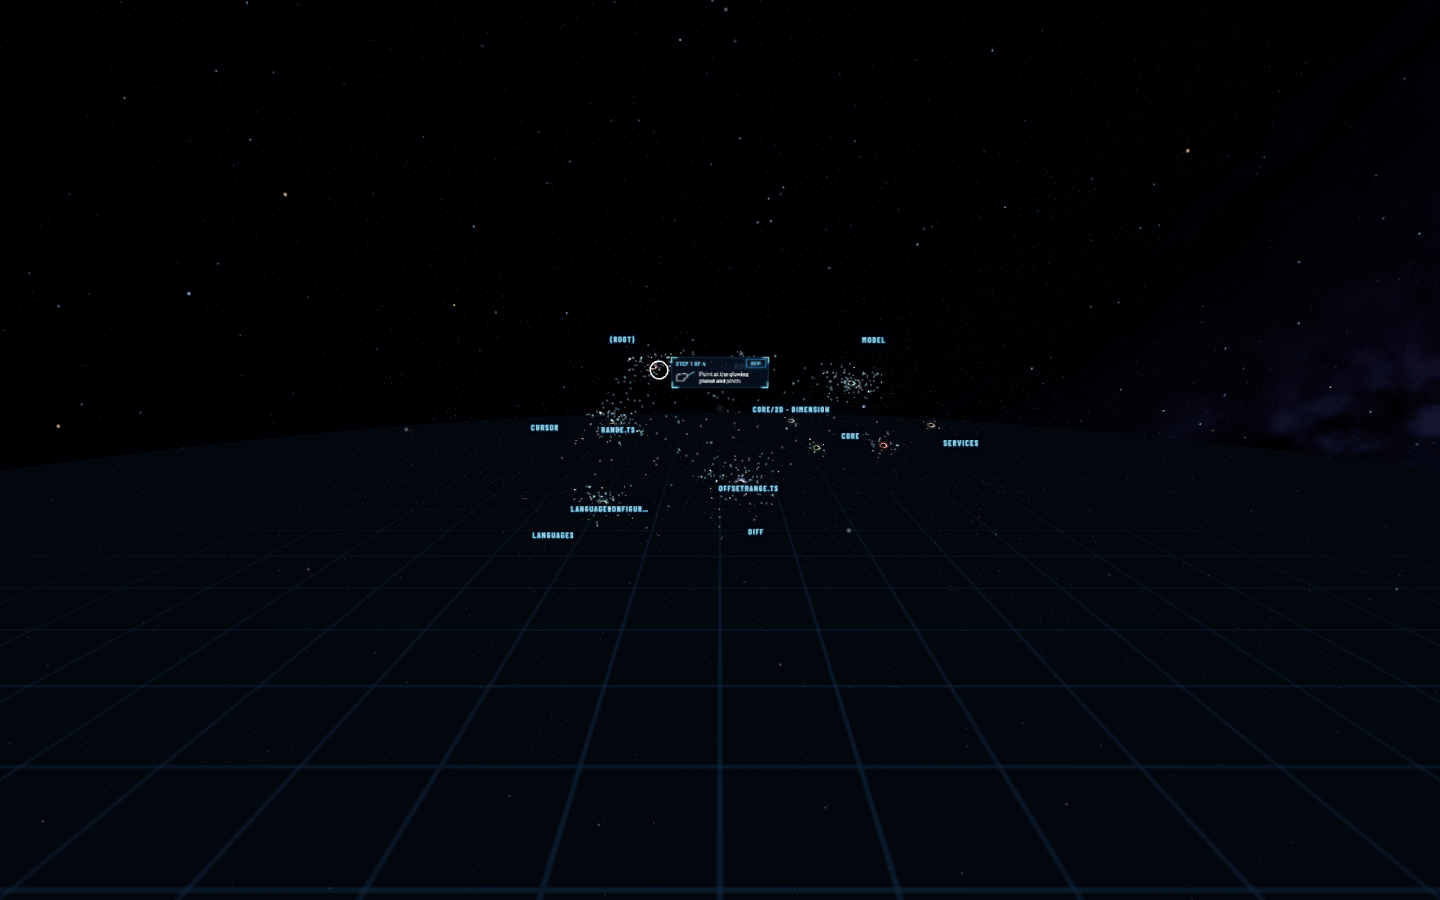
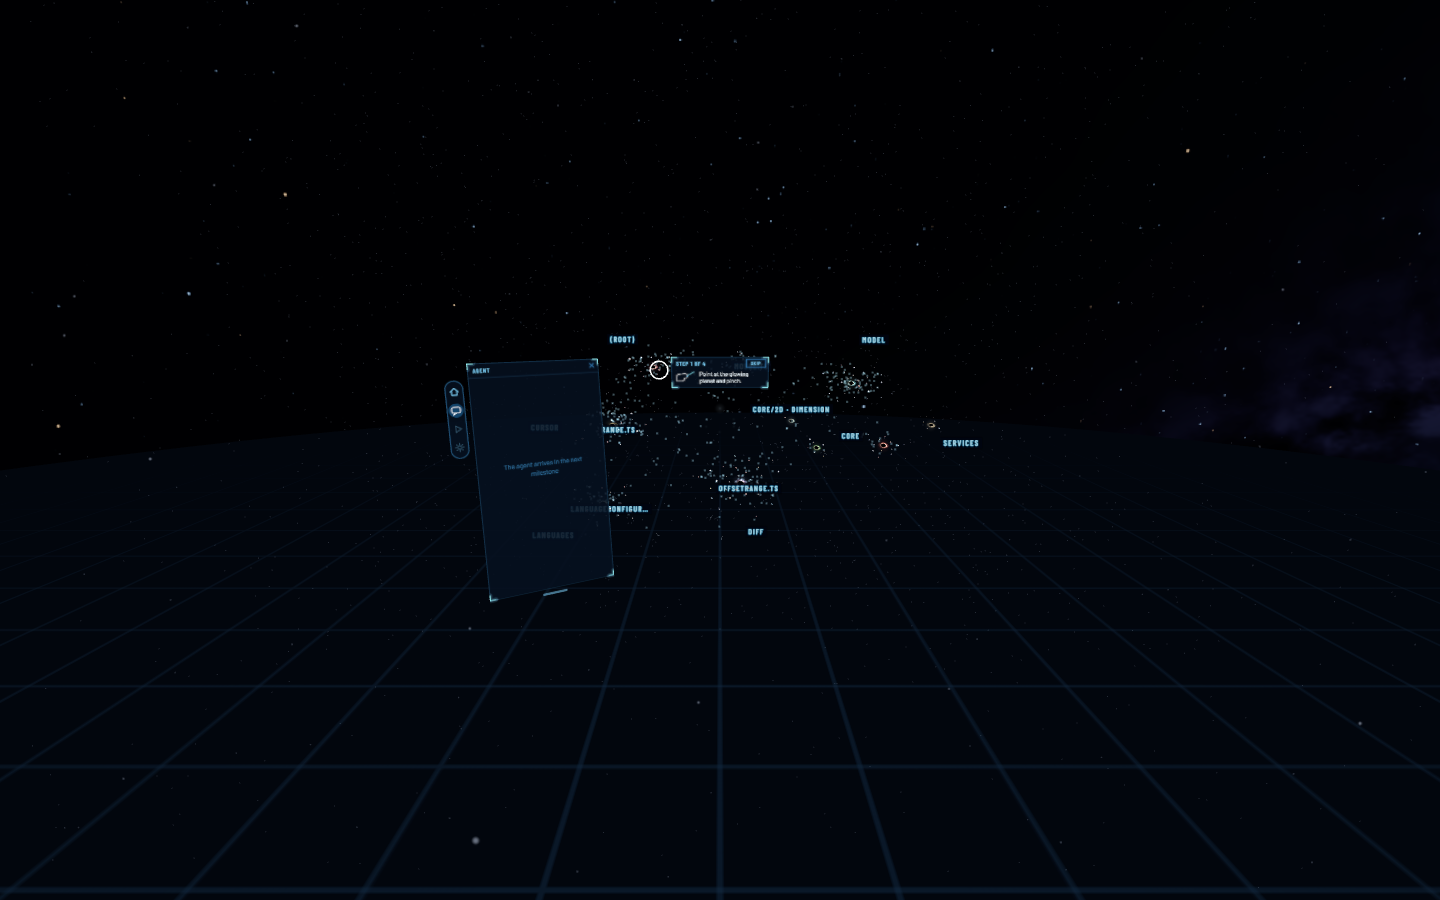
Add the chat window shell and its tab strip
The chat window (0.40 x 0.72 m, left of the model, titled "Agent") with an empty transcript saying the agent
arrives in the next milestone, a close mark and a grab bar. The tab strip rides on its left edge and stays
when the window is closed: Home calls goHome(), Chat shows the window, Replay and Settings are disabled
until the next plan. Checked in the emulator by hand ray: Home returns a landed view to the overview; the
grab bar moves the window and the strip follows; the close mark hides it and the Chat tab brings it back.

Changed region(s): [[0.3125, 0.3733, 0.4375, 0.5289], [0.4062, 0.5289, 0.4375, 0.5911], [0.375, 0.5911, 0.4062, 0.6222]]

diff --git a/src/systems/chat-window-system.ts b/src/systems/chat-window-system.ts
@@ -1,0 +1,86 @@
+// The chat window and its tab strip. The window (0.40 × 0.72 m, to the left of the model) is the app's one standing
+// window: shown while state.agentOpen is set, hidden from its close mark, moved by its grab bar. The tab strip rides on
+// its left edge and stays when the window is closed, so the Chat tab can bring it back. Home calls goHome(); Replay and
+// Settings arrive in the next plan and are disabled until then.
+import { Vector3, createSystem } from '@iwsdk/core';
+import { CanvasPanel, STYLE_PX_PER_M } from '../panels/canvas-panel.ts';
+import { CHAT_WINDOW, drawChatShell } from '../panels/draw-chat-shell.ts';
+import { TAB_STRIP, TAB_STRIP_OFFSET, drawTabStrip } from '../panels/draw-tab-strip.ts';
+import type { TabId } from '../panels/draw-tab-strip.ts';
+import { loadFonts } from '../panels/fonts.ts';
+import { agentOpen } from '../state/app-state.ts';
+import { goHome, hideChat, showChat } from '../state/commands.ts';
+import { headPosition } from './head.ts';
+import { PLACEMENTS, SEAT, place } from './panel-system.ts';
+
+const DISABLED: readonly TabId[] = ['replay', 'settings'];
+
+export class ChatWindowSystem extends createSystem({}) {
+  private chat!: CanvasPanel;
+  private tabs!: CanvasPanel;
+  private fontReady = false;
+  private head!: Vector3;
+  private offset!: Vector3;
+
+  init() {
+    this.head = new Vector3();
+    // The strip's centre relative to the window's centre, in the window's own frame (metres).
+    const m = 1 / STYLE_PX_PER_M;
+    this.offset = new Vector3(
+      -CHAT_WINDOW.widthM / 2 - TAB_STRIP_OFFSET.gap * m - TAB_STRIP.widthM / 2,
+      CHAT_WINDOW.heightM / 2 - TAB_STRIP_OFFSET.top * m - TAB_STRIP.heightM / 2,
+      0,
+    );
+    this.chat = new CanvasPanel({
+      name: 'chat',
+      ...CHAT_WINDOW,
+      renderer: this.renderer,
+      window: { title: 'Agent', closable: true, movable: true },
+    }).attach(this.world);
+    this.chat.eye = SEAT.eye;
+    place(this.chat, PLACEMENTS.agentPanel);
+    this.chat.visible = false;
+    this.chat.onClose = () => hideChat();
+    this.tabs = new CanvasPanel({ name: 'tab-strip', ...TAB_STRIP, renderer: this.renderer }).attach(this.world);
+    this.tabs.mesh.renderOrder = 31;
+    this.tabs.onHover = () => this.drawTabs();
+    this.tabs.onPress = id => {
+      if (id === 'tab:home') goHome();
+      else if (id === 'tab:chat') showChat();
+    };
+    void loadFonts().then(() => {
+      this.fontReady = true;
+      this.drawChat();
+    });
+    this.cleanupFuncs.push(
+      agentOpen.subscribe(() => this.drawChat()),
+      () => {
+        this.chat.dispose();
+        this.tabs.dispose();
+      },
+    );
+    this.drawTabs();
+  }
+
+  private drawChat() {
+    const open = agentOpen.peek() && this.fontReady;
+    this.chat.visible = open;
+    if (open) this.chat.redraw((ctx, w, h) => drawChatShell(ctx, w, h, this.chat.u));
+    this.drawTabs();
+  }
+
+  private drawTabs() {
+    const active: TabId | null = agentOpen.peek() ? 'chat' : null;
+    this.tabs.redraw((ctx, w, h) => drawTabStrip(ctx, w, h, { active, hovered: this.tabs.hovered, disabled: DISABLED }));
+  }
+
+  update(delta: number) {
+    headPosition(this.renderer, this.player, this.camera, this.head);
+    this.chat.tick(delta, this.head);
+    // The strip rides on the window's left edge, open or closed.
+    const strip = this.tabs.mesh,
+      window = this.chat.mesh;
+    strip.quaternion.copy(window.quaternion);
+    strip.position.copy(this.offset).applyQuaternion(window.quaternion).add(window.position);
+  }
+}

diff --git a/src/panels/draw-tab-strip.ts b/src/panels/draw-tab-strip.ts
@@ -1,0 +1,105 @@
+// The tab strip (docs/visual-style.md): a slim rounded column of icons on the chat window's left edge. Home, Chat,
+// Replay, Settings; the current tab is lit, a hovered tab brightens, a disabled tab is drawn faint and takes no pinch.
+// Icons are drawn here from plain strokes (adapted from docs/style/mock.html).
+import type { HitRegion } from '../core/panel-hit.ts';
+import { STYLE_PX_PER_M } from './canvas-panel.ts';
+import { THEME, glowStroke } from './paint.ts';
+
+export type TabId = 'home' | 'chat' | 'replay' | 'settings';
+export const TABS: readonly TabId[] = ['home', 'chat', 'replay', 'settings'];
+
+/** In style pixels: 44 wide, a 46-pixel cell per tab (5.4 cm in the room), 5 pixels of margin top and bottom. */
+const W = 44,
+  CELL = 46,
+  MARGIN = 5;
+const PX_PER_M = 3000;
+const heightStyle = TABS.length * CELL + MARGIN * 2;
+export const TAB_STRIP = {
+  widthPx: Math.round((W / STYLE_PX_PER_M) * PX_PER_M),
+  heightPx: Math.round((heightStyle / STYLE_PX_PER_M) * PX_PER_M),
+  widthM: W / STYLE_PX_PER_M,
+  heightM: heightStyle / STYLE_PX_PER_M,
+};
+/** Where the strip sits against the chat window, in style pixels: 12 px left of its left edge, 40 px below its top. */
+export const TAB_STRIP_OFFSET = { gap: 12, top: 40 };
+
+const ICONS: Record<TabId, (p: Path2D) => void> = {
+  home: p => {
+    p.moveTo(-9, 0);
+    p.lineTo(0, -9);
+    p.lineTo(9, 0);
+    p.moveTo(-6, -1);
+    p.lineTo(-6, 8);
+    p.lineTo(6, 8);
+    p.lineTo(6, -1);
+  },
+  chat: p => {
+    p.roundRect(-10, -8, 20, 14, 4);
+    p.moveTo(-4, 6);
+    p.lineTo(-7, 11);
+    p.lineTo(1, 6);
+  },
+  replay: p => {
+    p.moveTo(-5, -8);
+    p.lineTo(8, 0);
+    p.lineTo(-5, 8);
+    p.closePath();
+  },
+  settings: p => {
+    p.moveTo(4, 0);
+    p.arc(0, 0, 4, 0, Math.PI * 2);
+    for (let i = 0; i < 8; i++) {
+      const a = (i / 8) * Math.PI * 2;
+      p.moveTo(7 * Math.cos(a), 7 * Math.sin(a));
+      p.lineTo(10 * Math.cos(a), 10 * Math.sin(a));
+    }
+  },
+};
+
+export function drawTabStrip(
+  ctx: CanvasRenderingContext2D,
+  w: number,
+  h: number,
+  { active, hovered, disabled }: { active: TabId | null; hovered: string | null; disabled: readonly TabId[] },
+): HitRegion[] {
+  const u = w / W;
+  const regions: HitRegion[] = [];
+  const body = new Path2D();
+  body.roundRect(u, u, w - 2 * u, h - 2 * u, (W / 2 - 1) * u);
+  ctx.save();
+  ctx.globalAlpha = THEME.inkAlpha;
+  ctx.fillStyle = THEME.ink;
+  ctx.fill(body);
+  ctx.restore();
+  glowStroke(ctx, body, THEME.lineDim, u, 0.5);
+  TABS.forEach((tab, i) => {
+    const cx = w / 2,
+      cy = (MARGIN + CELL * i + CELL / 2) * u;
+    const off = disabled.includes(tab),
+      lit = tab === active,
+      hover = !off && hovered === `tab:${tab}`;
+    if (lit || hover) {
+      ctx.save();
+      ctx.globalAlpha = lit ? 0.35 : 0.2;
+      ctx.fillStyle = THEME.glow;
+      ctx.beginPath();
+      ctx.arc(cx, cy, 17 * u, 0, Math.PI * 2);
+      ctx.fill();
+      ctx.restore();
+    }
+    const icon = new Path2D();
+    ICONS[tab](icon);
+    ctx.save();
+    ctx.translate(cx, cy);
+    ctx.scale(u, u);
+    ctx.globalAlpha = off ? 0.35 : 1;
+    ctx.strokeStyle = lit || hover ? THEME.white : THEME.line;
+    ctx.lineWidth = 1.8;
+    ctx.lineCap = 'round';
+    ctx.lineJoin = 'round';
+    ctx.stroke(icon);
+    ctx.restore();
+    if (!off) regions.push({ id: `tab:${tab}`, x: 0, y: (MARGIN + CELL * i) * u, w, h: CELL * u });
+  });
+  return regions;
+}

diff --git a/src/panels/test-page.ts b/src/panels/test-page.ts
@@ -5,6 +5,8 @@ import { visibleLines } from '../core/code-view.ts';
 import type { CodeView, Segment } from '../core/code-view.ts';
 import { TUTORIAL_TEXT } from '../core/tutorial.ts';
 import { STYLE_PX_PER_M } from './canvas-panel.ts';
+import { CHAT_WINDOW, drawChatShell } from './draw-chat-shell.ts';
+import { TAB_STRIP, drawTabStrip } from './draw-tab-strip.ts';
 import { CODE_CARD, CODE_LAYOUT, codeCardSize, drawCodeCard } from './draw-code-card.ts';
 import { INFO_CARD, drawInfoCard, infoCardTitle } from './draw-info-card.ts';
 import { STATUS_CARD, drawStatusCard, statusTitle } from './draw-status-card.ts';
@@ -126,6 +128,14 @@ export async function drawAll() {
     show(`tutorial-${step}`, TUTORIAL_PANEL, (ctx, w, h, u) => drawTutorial(ctx, w, h, u, step, TUTORIAL_TEXT[step]), {
       title: tutorialTitle(k + 1),
     }),
+  );
+  show('chatWindow', CHAT_WINDOW, (ctx, w, h, u) => drawChatShell(ctx, w, h, u), {
+    title: 'Agent',
+    closable: true,
+    movable: true,
+  });
+  show('tabStrip', TAB_STRIP, (ctx, w, h) =>
+    drawTabStrip(ctx, w, h, { active: 'chat', hovered: 'tab:home', disabled: ['replay', 'settings'] }),
   );
   const loadingCard = { kind: 'loading', title: 'Opening project', detail: 'editor-core' } as const;
   show('loadingCard', STATUS_CARD, (ctx, w, h, u) => drawStatusCard(ctx, w, h, u, loadingCard), {

diff --git a/src/panels/draw-chat-shell.ts b/src/panels/draw-chat-shell.ts
@@ -1,0 +1,19 @@
+// The chat window's shell (docs/visual-style.md, "The chat window"): 0.40 × 0.72 m, titled "Agent". Until the agent
+// arrives in the next milestone the transcript area holds one line saying so. The frame, close mark and grab bar come
+// from CanvasPanel.
+import type { HitRegion } from '../core/panel-hit.ts';
+import { THEME, font, rule, wrap } from './paint.ts';
+
+export const CHAT_WINDOW = { widthPx: 1200, heightPx: 2160, widthM: 0.4, heightM: 0.72 };
+export const CHAT_PLACEHOLDER = 'The agent arrives in the next milestone';
+
+export function drawChatShell(ctx: CanvasRenderingContext2D, w: number, h: number, u: number): HitRegion[] {
+  rule(ctx, 1, 36 * u, w - 2, u);
+  ctx.save();
+  ctx.font = font('body', 17 * u);
+  ctx.fillStyle = THEME.lineDim;
+  ctx.textAlign = 'center';
+  wrap(ctx, CHAT_PLACEHOLDER, w - 60 * u).forEach((line, k) => ctx.fillText(line, w / 2, h * 0.45 + k * 24 * u));
+  ctx.restore();
+  return [];
+}

diff --git a/src/index.ts b/src/index.ts
@@ -6,6 +6,7 @@ import { createStaticDataset } from './adapters/static-dataset.ts';
 import { galaxyState } from './galaxy-bridge/galaxy-session.js';
 import { appState } from './state/app-state.ts';
 import { commands } from './state/commands.ts';
+import { ChatWindowSystem } from './systems/chat-window-system.ts';
 import { GalaxySystem } from './systems/galaxy-system.ts';
 import { ManipulationSystem } from './systems/manipulation-system.ts';
 import { PanelSystem } from './systems/panel-system.ts';
@@ -17,6 +18,7 @@ World.create(document.getElementById('scene-container') as HTMLDivElement, proje
   world.registerSystem(GalaxySystem);
   world.registerSystem(ManipulationSystem);
   world.registerSystem(PanelSystem);
+  world.registerSystem(ChatWindowSystem);
   world.registerSystem(TutorialSystem);
   const galaxy = world.getSystem(GalaxySystem)!;
   window.__orrery = {
